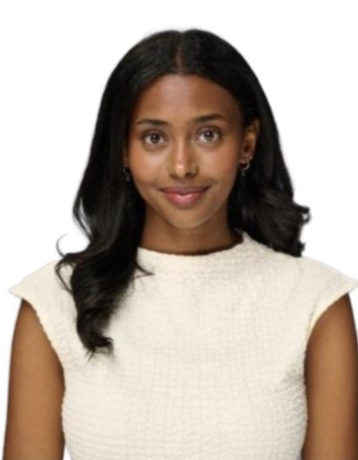
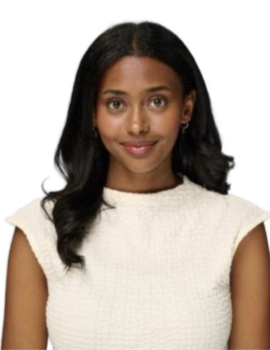
changed card size

diff --git a/app/mass-team/page.tsx b/app/mass-team/page.tsx
@@ -99,7 +99,7 @@ interface TeamSectionProps {
   columns?: number;
 }
 
-const TeamSection = ({title, members, accent, columns = 4 }: TeamSectionProps) => (
+const TeamSection = ({title, members, accent}: TeamSectionProps) => (
   <section className="mb-16">
     <div className="mb-6">
       <h2
@@ -112,7 +112,7 @@ const TeamSection = ({title, members, accent, columns = 4 }: TeamSectionProps) =
     <SectionDivider accent={accent} />
     <div
       className="grid gap-x-6 gap-y-8"
-      style={{ gridTemplateColumns: `repeat(${columns}, minmax(0, 1fr))` }}
+      style={{ gridTemplateColumns: "repeat(auto-fill, minmax(200px, 1fr))" }}
     >
       {members.map((m) => (
         <TeamCard key={m.id} member={m} accent={accent} />
@@ -163,8 +163,7 @@ export default function MassTeam() {
           accent="#1050bf"
           columns={4}
         />
-
-      
+        
        </div>
        <Footer />
     </div>
